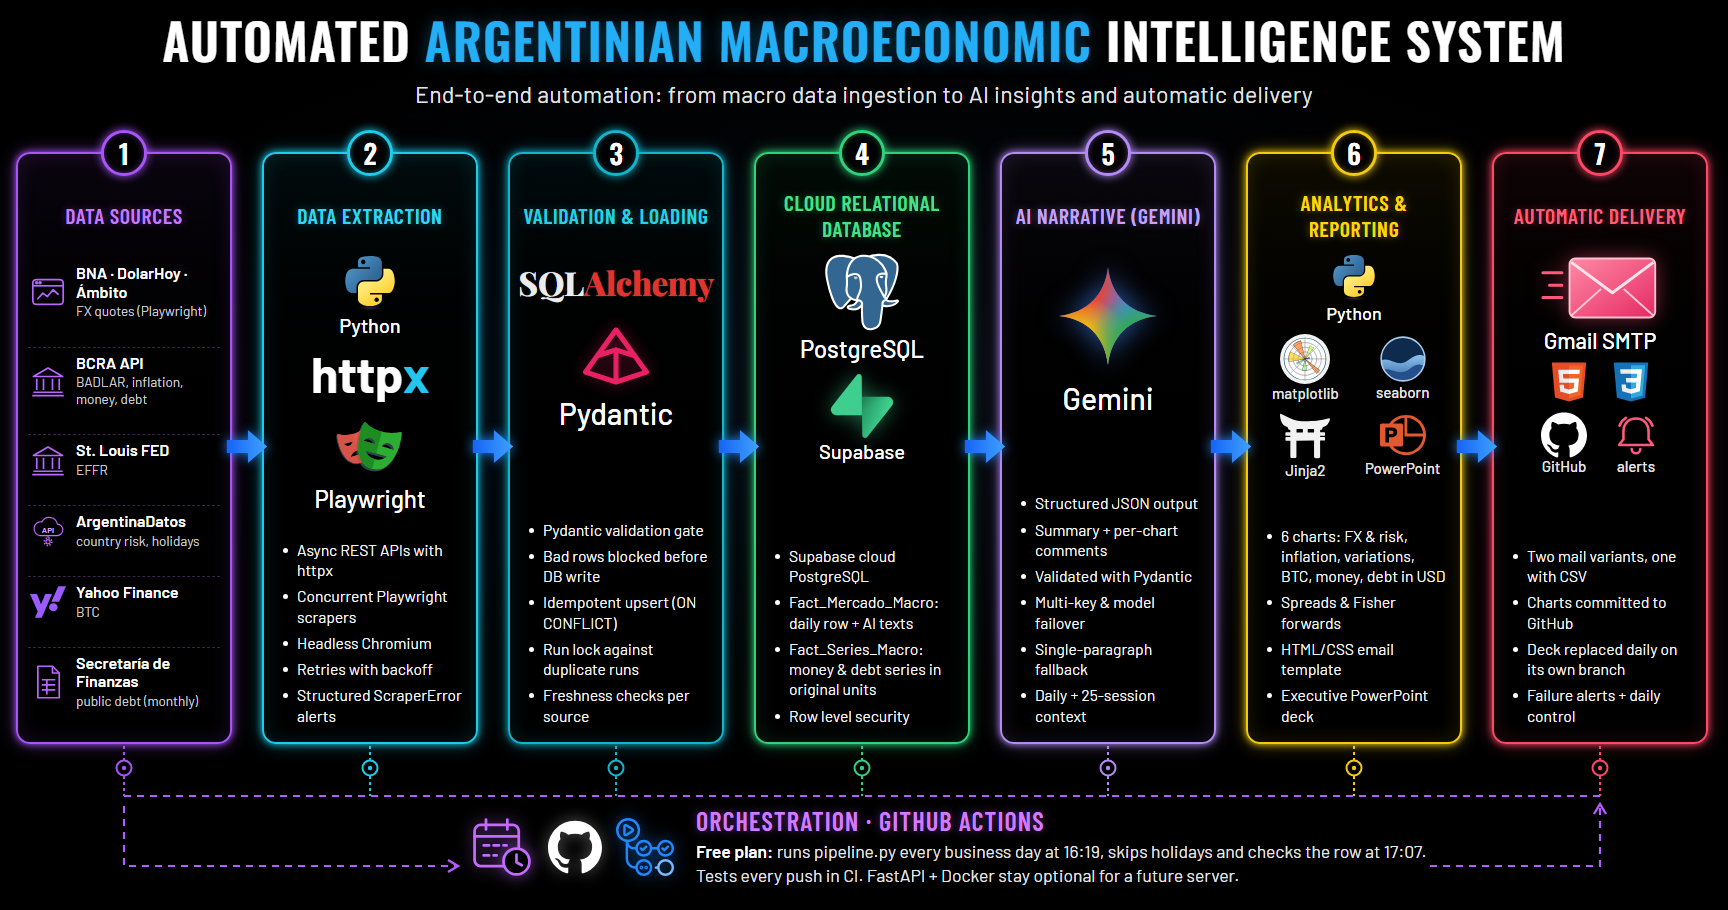
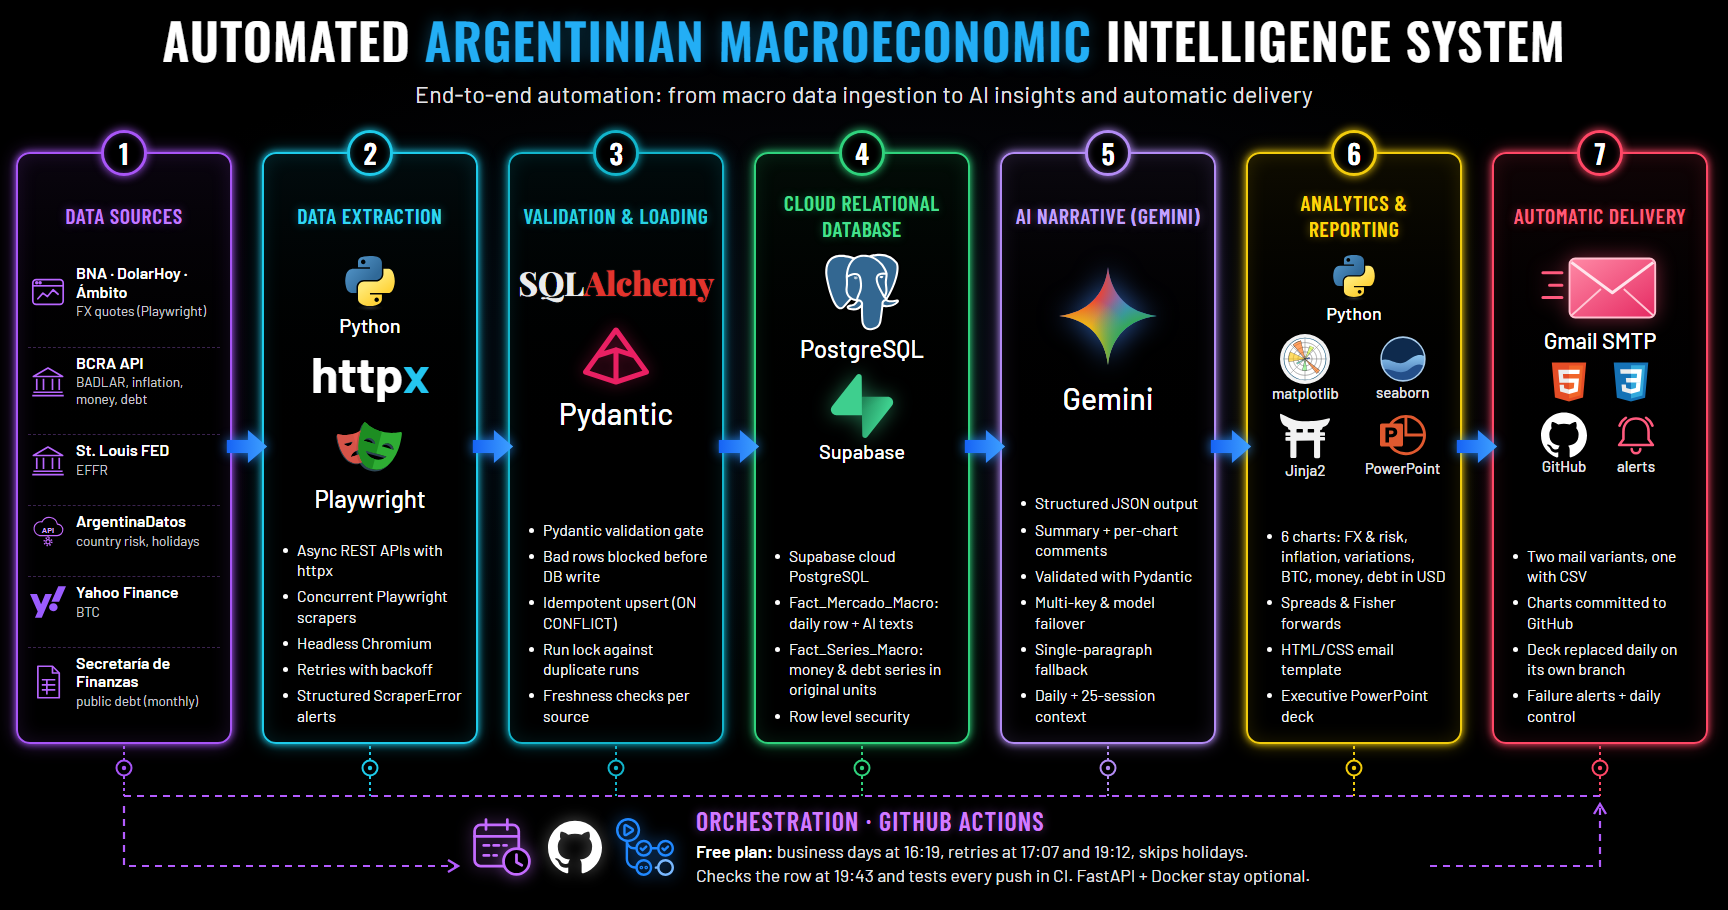
Retry the daily run at 17:07 and 19:12, move the control after them, and link today's deck from the README

Changed region(s): [[0.4062, 0.9231, 0.8125, 0.9846]]

diff --git a/Assets/arquitectura/construir.py b/Assets/arquitectura/construir.py
@@ -372,8 +372,8 @@ def opcion_1() -> str:
         f'<div class="barra"><div class="iconos"><img src="{CALENDARIO}">'
         f'<img class="gh" src="{si("github", "#FFFFFF")}"><img class="gha" src="{dev("githubactions")}"></div>'
         '<div><div class="t1">Orchestration · GitHub Actions</div>'
-        '<div class="t2"><b>Free plan:</b> runs pipeline.py every business day at 16:19, skips holidays and checks the row at 17:07.'
-        '<br>Tests every push in CI. FastAPI + Docker stay optional for a future server.</div></div></div>'
+        '<div class="t2"><b>Free plan:</b> business days at 16:19, retries at 17:07 and 19:12, skips holidays.'
+        '<br>Checks the row at 19:43 and tests every push in CI. FastAPI + Docker stay optional.</div></div></div>'
     )
 
     return (

diff --git a/AGENTS.md b/AGENTS.md
@@ -53,7 +53,7 @@ ruff check .
 
 The test suite loads fake credentials over any real `.env`, and fails any test that tries to open a real SMTP connection, make a real HTTP request, download from Yahoo or launch a browser, so it is always safe to run. It covers the transformations, charts, email assembly, the pipeline orchestration through fake dependencies, the idempotent insert, `preview_git` against temporary git repos, the Gemini failover, the API and the manual resend. `tests/test_html_golden.py` pins the mail's HTML byte for byte against `tests/datos/`: when a change to the HTML is intended, regenerate those files with `ACTUALIZAR_GOLDEN=1 pytest tests/test_html_golden.py` and commit the diff together with the change.
 
-**Scheduling and monitoring:** `.github/workflows/` holds the CI (lint, imports, tests; runs on push and PR) and two scheduled workflows: `corrida-diaria.yml` (the daily run, 16:19 in Argentina, Monday to Friday) and `control-diario.yml` (fails when a business day has no row, 17:07; both on a non-round minute, because GitHub delays and drops schedules at the top of the hour). Their schedules only run when the repository variable `CORRIDA_AUTOMATICA` is `si` (Settings > Secrets and variables > Actions > Variables), so they are switched on and off without editing YAML and a merge cannot start them by surprise; manual dispatch always works, in dry-run by default. The setup steps, and the comparison with the Windows Task Scheduler, are in `docs/programacion-y-monitoreo.md`. Commits made by the workflow carry the repo owner's name and GitHub noreply address (or the address in the `EMAIL_COMMITS` variable), never a bot's. `python scripts/control_diario.py --sin-alerta` checks today's row without sending the alert email.
+**Scheduling and monitoring:** `.github/workflows/` holds the CI (lint, imports, tests; runs on push and PR) and two scheduled workflows: `corrida-diaria.yml` (the daily run at 16:19 in Argentina, Monday to Friday, with two retries at 17:07 and 19:12 that end as `omitida` when the day is already done) and `control-diario.yml` (fails when a business day has no row, 19:43, after the last retry; every schedule is on a non-round minute, because GitHub delays and drops schedules at the top of the hour). Their schedules only run when the repository variable `CORRIDA_AUTOMATICA` is `si` (Settings > Secrets and variables > Actions > Variables), so they are switched on and off without editing YAML and a merge cannot start them by surprise; manual dispatch always works, in dry-run by default. The setup steps, and the comparison with the Windows Task Scheduler, are in `docs/programacion-y-monitoreo.md`. Commits made by the workflow carry the repo owner's name and GitHub noreply address (or the address in the `EMAIL_COMMITS` variable), never a bot's. `python scripts/control_diario.py --sin-alerta` checks today's row without sending the alert email.
 
 **Resend today's report to one person:**
 ```bash
@@ -183,7 +183,7 @@ Three guardrails worth knowing: it aborts if the newest row has no `ai_paragraph
 - **Keep the `httpx` logger at WARNING or above.** It logs full request URLs at INFO, and the FRED request carries the API key in its query string.
 - **Logs can be public.** On GitHub Actions in this public repo, anyone can read a run's log. `pipeline.configurar_logging` installs a formatter that replaces every secret from `.env` with `***` and every recipient address with `[destinatario]`, tracebacks included, and `--json` output goes through the same `redactar()`. Keep new output inside `logging`, and never upload the mail preview or error details as workflow artifacts.
 - **Anything that can send mail is verified with the sending stubbed or disabled.** `pipeline.py --dry-run`, `scripts/reenvio_manual.py --dry-run`, `scripts/control_diario.py --sin-alerta`. A real run of the control before the day's run sends a real (false) alert.
-- **No automatic retries in the scheduler.** A run that fails after inserting the row is not safe to repeat blindly: one of the two mail variants may already be out. Let it fail, read the alert, and redo the day with `--forzar` or resend with `scripts/reenvio_manual.py`. A plain rerun is safe the other way around: it skips a finished day and stops with an error on an unfinished one.
+- **Retries are plain reruns, never `--forzar`.** A run that fails after inserting the row is not safe to repeat blindly: one of the two mail variants may already be out. The two scheduled retries (17:07 and 19:12) are safe only because they are plain runs: they skip a finished day and stop with an error, and its alert, on an unfinished one. Never add `--forzar` to a scheduled run or turn on GitHub's re-run of failed jobs; with the alert in hand, redo the day with `--forzar` or resend with `scripts/reenvio_manual.py`.
 - **The run lock needs a session-mode connection.** `pg_try_advisory_lock` holds until the session ends or is reset. On a direct connection a killed run does not leave it behind, and behind a session-mode pooler neither, as long as the pooler resets the connection it gets back (`DISCARD ALL` releases advisory locks). Behind Supabase's pooler in transaction mode (port 6543) the lock and its release can land on different server connections and the lock would stay held; keep `SUPABASE_DB_URL` on the session pooler (port 5432). A direct connection also works from a PC, but not from GitHub Actions: Supabase's direct host is IPv6-only and GitHub's runners have no IPv6. If it ever stayed held, every run would end as `omitida` without writing the row, which is exactly what `scripts/control_diario.py` catches.
 - **The deck never goes into `main`.** `Previews/*.pptx` is ignored; the deck lives only on the `reporte-ejecutivo` branch, rebuilt as a single commit every day. Do not add it to the `Previews/` commit: every daily version would stay in the history.
 - **Debt is always shown in USD.** Stored values keep the source unit; the conversion with the A3500 rate of each date happens only for charts and texts.

diff --git a/README.md b/README.md
@@ -18,6 +18,11 @@
 [![Top language](https://img.shields.io/github/languages/top/mauroemartinez/RPA-exchange-rate-scrapping-automatic-mailing?style=flat&color=6c757d)](https://github.com/mauroemartinez/RPA-exchange-rate-scrapping-automatic-mailing)
 [![Repo size](https://img.shields.io/github/repo-size/mauroemartinez/RPA-exchange-rate-scrapping-automatic-mailing?style=flat&color=6c757d)](https://github.com/mauroemartinez/RPA-exchange-rate-scrapping-automatic-mailing)
 
+### 📊 Today's Executive Deck
+The pipeline rebuilds a nine-slide PowerPoint every business day and keeps only the latest one, on the [`reporte-ejecutivo`](https://github.com/mauroemartinez/RPA-exchange-rate-scrapping-automatic-mailing/tree/reporte-ejecutivo) branch.
+
+**[⬇ Download today's deck](https://github.com/mauroemartinez/RPA-exchange-rate-scrapping-automatic-mailing/raw/reporte-ejecutivo/Reporte%20Ejecutivo.pptx)**
+
 ---
 
 ### 🏗 System Architecture & Data Pipeline Blueprint
@@ -139,7 +144,7 @@ A dry run leaves the six charts, the executive deck, a browser preview and an `.
 2. Load the `.env` values as repository secrets: Settings > Secrets and variables > Actions.
 3. Run *Corrida diaria* by hand in `dry-run` mode, to check that the Argentine sites answer from GitHub's servers.
 4. Run it once in `real` mode.
-5. Create the repository variable `CORRIDA_AUTOMATICA` with the value `si`. From then on it runs Monday to Friday at 16:19 Argentina time, and the daily control at 17:07. Set it to `no` to pause.
+5. Create the repository variable `CORRIDA_AUTOMATICA` with the value `si`. From then on it runs Monday to Friday at 16:19 Argentina time, retries at 17:07 and 19:12 if that one did not go out, and the daily control at 19:43. Set it to `no` to pause.
 
 **Executive deck.** The latest deck is always at [`Reporte Ejecutivo.pptx`](https://github.com/mauroemartinez/RPA-exchange-rate-scrapping-automatic-mailing/raw/reporte-ejecutivo/Reporte%20Ejecutivo.pptx), on the `reporte-ejecutivo` branch. That branch is rebuilt as a single commit every day, so it never accumulates versions. `python scripts/presentacion_ejecutiva.py` builds the same deck by hand from the warehouse.
 
